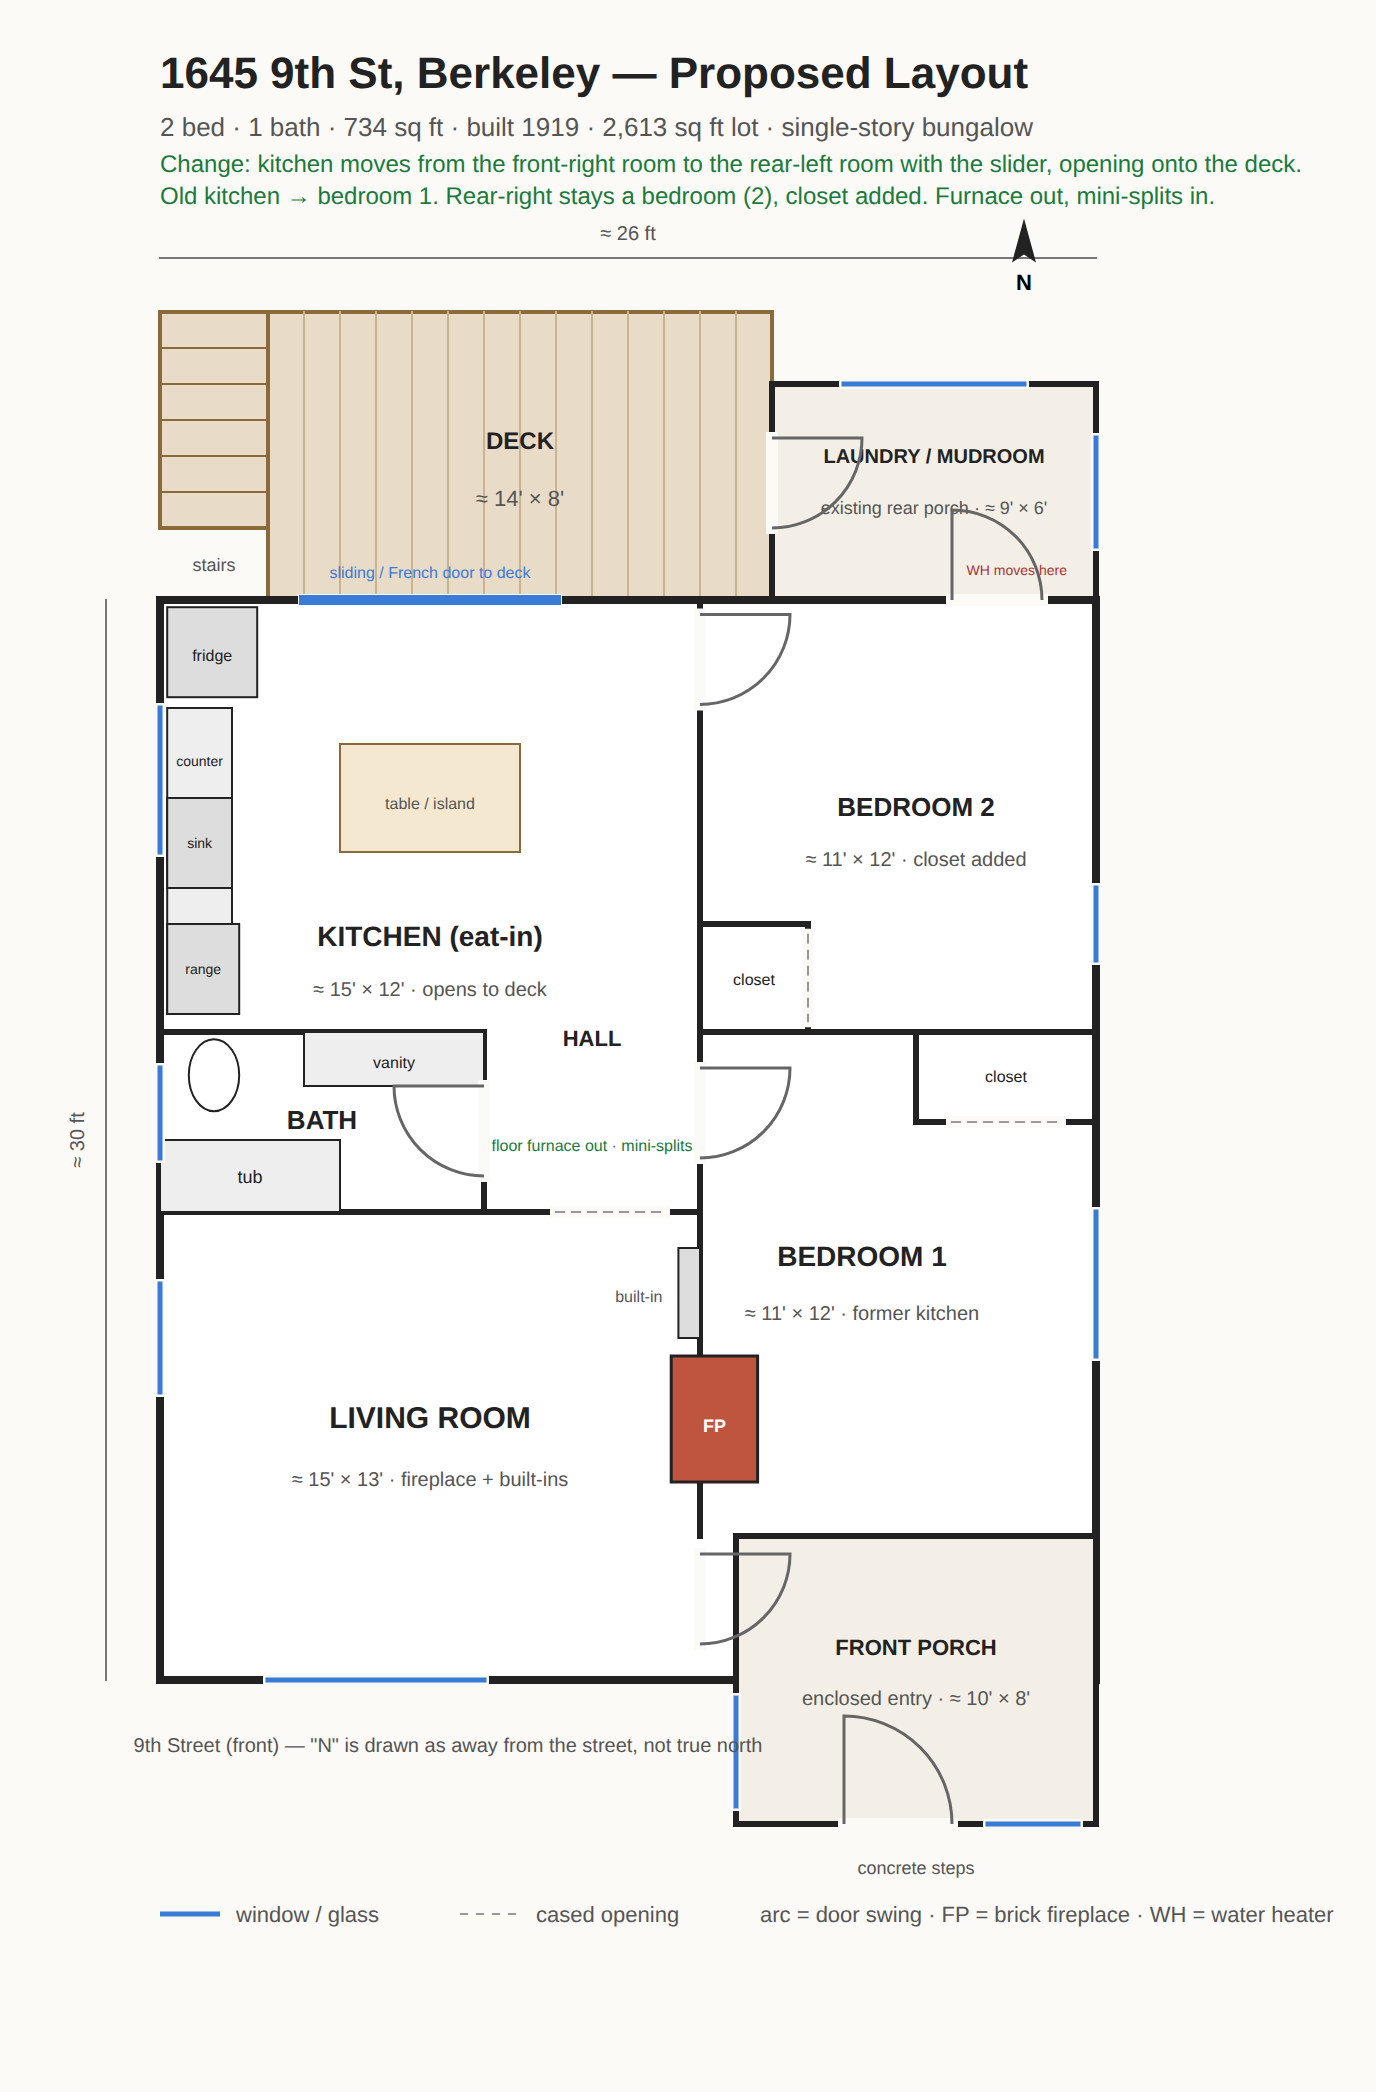
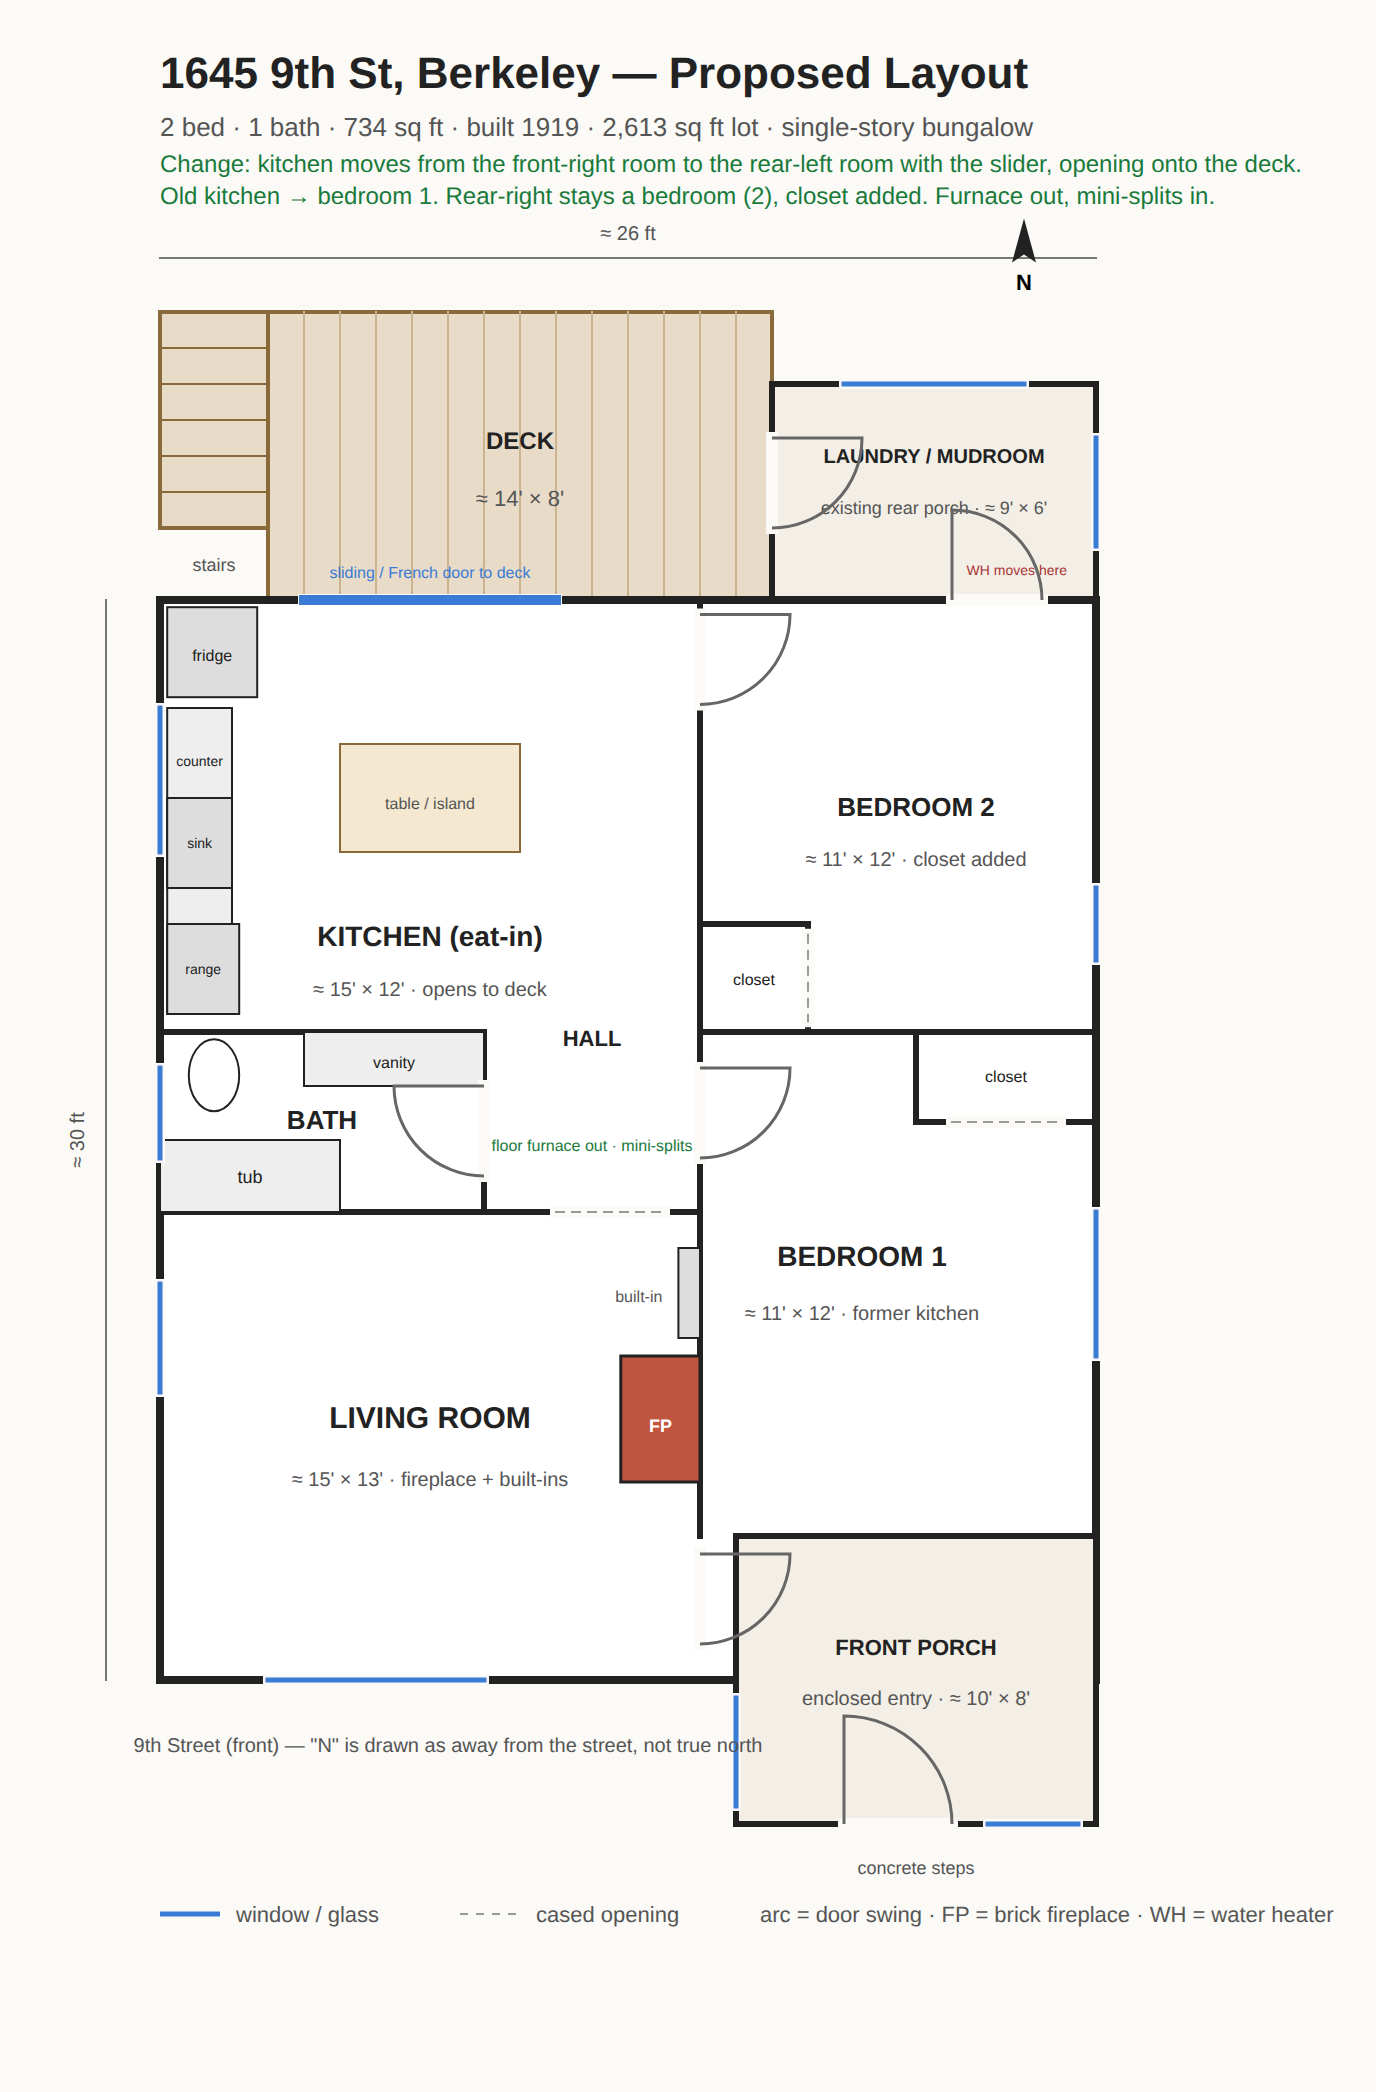
Fireplace sits inside the living room; east wall is flush
Claude-Session: https://claude.ai/code/session_01QP4ZkLkW7cUrZ9x3HXMY7H

Changed region(s): [[0.4375, 0.6214, 0.5625, 0.7146]]

diff --git a/floor-plan/generate.py b/floor-plan/generate.py
@@ -71,7 +71,7 @@ def build(variant):
     line(15,12,15,26)
     line(21,12,21,14.5); line(21,14.5,26,14.5)
     # fireplace / built-in
-    rect(14.2,21,16.6,24.5,fill="#c0553f",stroke="#222",sw=1.5); label(15.4,23.1,"FP",9,True,"#fff")
+    rect(12.8,21,15,24.5,fill="#c0553f",stroke="#222",sw=1.5); label(13.9,23.1,"FP",9,True,"#fff")   # brick fireplace sits in the living room; the far wall is flush
     rect(14.4,18,15,20.5,fill="#ddd",stroke="#222",sw=1); label(13.3,19.5,"built-in",8,False,"#555")
     # bath
     rect(0,15,5,17,fill="#eee",stroke="#222",sw=1); label(2.5,16.2,"tub",9,False)

diff --git a/CLAUDE.md b/CLAUDE.md
@@ -41,7 +41,7 @@ Rough photo index:
 - `floor-plan/generate.py` — generates both SVGs; edit this, run it, then re-export PNGs with headless Chrome (see below)
 - `index.html` — shareable page with an existing/proposed toggle and both photo galleries, published at https://keithmancuso.github.io/1645-9th-st/
 
-The existing plan was reconstructed from the listing photos only, not measured. Treat room sizes as ±2 ft. Layout as drawn: living room front-left with fireplace on the wall shared with the front porch and the kitchen; enclosed front porch front-right; **kitchen behind the porch (front-right, ≈11×12)**; small central hall; bathroom on the left; **bedroom 1 rear-right (≈11×12) with a door to the rear porch, reached through a door in the rear corner of bedroom 2** (photo 18); bedroom 2 rear-left with a slider to the deck and the floor furnace grate near its east wall; unfinished enclosed rear porch off bedroom 1. Bathroom position and door placements are the least certain parts.
+The existing plan was reconstructed from the listing photos only, not measured. Treat room sizes as ±2 ft. Layout as drawn: living room front-left with the brick fireplace against the east wall (it does not project into the room behind; that wall is flush); enclosed front porch front-right; **kitchen behind the porch (front-right, ≈11×12)**; small central hall; bathroom on the left; **bedroom 1 rear-right (≈11×12) with a door to the rear porch, reached through a door in the rear corner of bedroom 2** (photo 18); bedroom 2 rear-left with a slider to the deck and the floor furnace grate near its east wall; unfinished enclosed rear porch off bedroom 1. Bathroom position and door placements are the least certain parts.
 
 Correction, Sept 9: the first draft had the kitchen and bedroom 1 swapped (kitchen rear-right, bedroom 1 front-right). Keith confirmed after the walkthrough that the front-right room is the kitchen today. Room sizes still need checking against a real plan; none was found in the listing or the disclosure package. The first draft also drew a 2 ft double wall between the two rear rooms; there was no evidence for it, so it is now one wall with a single door in the rear corner, where photo 18 shows it. The same photo shows no closet in that corner, so the bedroom 2 closet from the first draft is gone.
 
